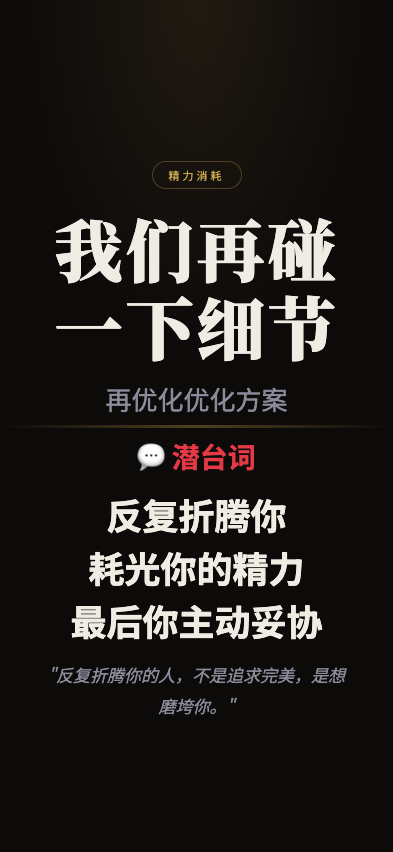
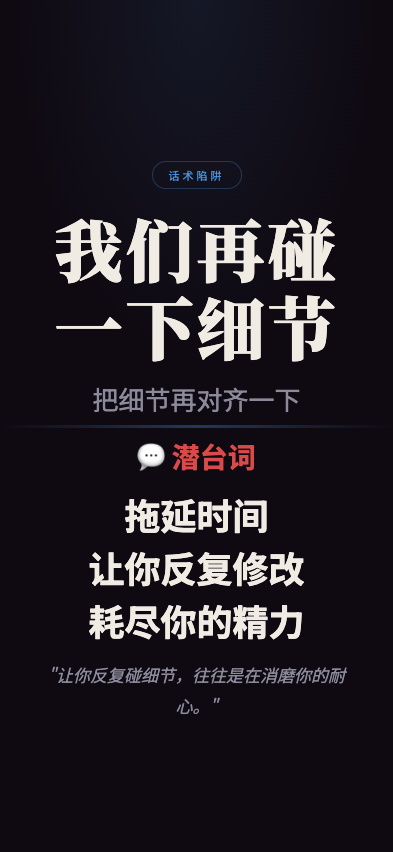
feat: 职场生存法则 screenshot - huabinglanlou-v1

Changed region(s): [[0.1527, 0.5798, 0.8855, 0.8545], [0.1832, 0.4577, 0.8244, 0.5188], [0.4275, 0.1831, 0.5802, 0.2136]]

diff --git a/wuliao-tools/tools/biz-speak/scenes/womenzaipengyixiaxijie.html b/wuliao-tools/tools/biz-speak/scenes/womenzaipengyixiaxijie.html
@@ -7,11 +7,11 @@
 <link href="https://fonts.googleapis.com/css2?family=Noto+Serif+SC:wght@400;700;900&family=Noto+Sans+SC:wght@300;400;700&display=swap" rel="stylesheet">
 <style>
   :root {
-    --bg: #0d0a0a;
+    --bg: #0f0a12;
     --text: #f0ece4;
     --text-dim: #8a8a9a;
-    --gold: #c9a84c;
-    --red: #e63946;
+    --gold: #4a90d9;
+    --red: #d94a4a;
   }
   * { margin:0; padding:0; box-sizing:border-box; }
   html, body { width:100%; height:100%; overflow:hidden; }
@@ -24,11 +24,11 @@
   }
   body::before {
     content:''; position:absolute; top:0; left:0; right:0; height:45%;
-    background:radial-gradient(ellipse at 50% 0%, rgba(201,168,76,0.1) 0%, transparent 65%);
+    background:radial-gradient(ellipse at 50% 0%, rgba(74,144,217,0.1) 0%, transparent 65%);
     pointer-events:none; z-index:0;
   }
   .top { flex:1; display:flex; flex-direction:column; align-items:center; justify-content:flex-end; padding:4px 28px 8px; position:relative; z-index:1; }
-  .tag { font-size:11px; letter-spacing:3px; color:var(--gold); border:1px solid rgba(201,168,76,0.3); padding:5px 16px; border-radius:50px; margin-bottom:20px; }
+  .tag { font-size:11px; letter-spacing:3px; color:var(--gold); border:1px solid rgba(74,144,217,0.3); padding:5px 16px; border-radius:50px; margin-bottom:20px; }
   .main-title { font-family:'Noto Serif SC'; font-size:68px; font-weight:900; text-align:center; line-height:1.15; letter-spacing:3px; min-width:0; overflow-wrap:break-word; max-width:92%; }
   .sub-title { font-size:26px; color:var(--text-dim); text-align:center; margin-top:14px; }
   .divider { width:100%; height:3px; background:linear-gradient(90deg,transparent,var(--gold),transparent); opacity:0.35; flex-shrink:0; position:relative; z-index:1; }
@@ -41,19 +41,19 @@
 </head>
 <body>
   <div class="top">
-    <div class="tag">精力消耗</div>
+    <div class="tag">话术陷阱</div>
     <div class="main-title">我们再碰一下细节</div>
-    <div class="sub-title">再优化优化方案</div>
+    <div class="sub-title">把细节再对齐一下</div>
   </div>
   <div class="divider"></div>
   <div class="bottom">
     <div class="truth-label">💬 潜台词</div>
     <div class="truth-lines">
-      <div class="truth-line">反复折腾你</div>
-      <div class="truth-line">耗光你的精力</div>
-      <div class="truth-line">最后你主动妥协</div>
+      <div class="truth-line">拖延时间</div>
+      <div class="truth-line">让你反复修改</div>
+      <div class="truth-line">耗尽你的精力</div>
     </div>
-    <div class="quote">"反复折腾你的人，不是追求完美，是想磨垮你。"</div>
+    <div class="quote">"让你反复碰细节，往往是在消磨你的耐心。"</div>
   </div>
 </body>
 </html>
